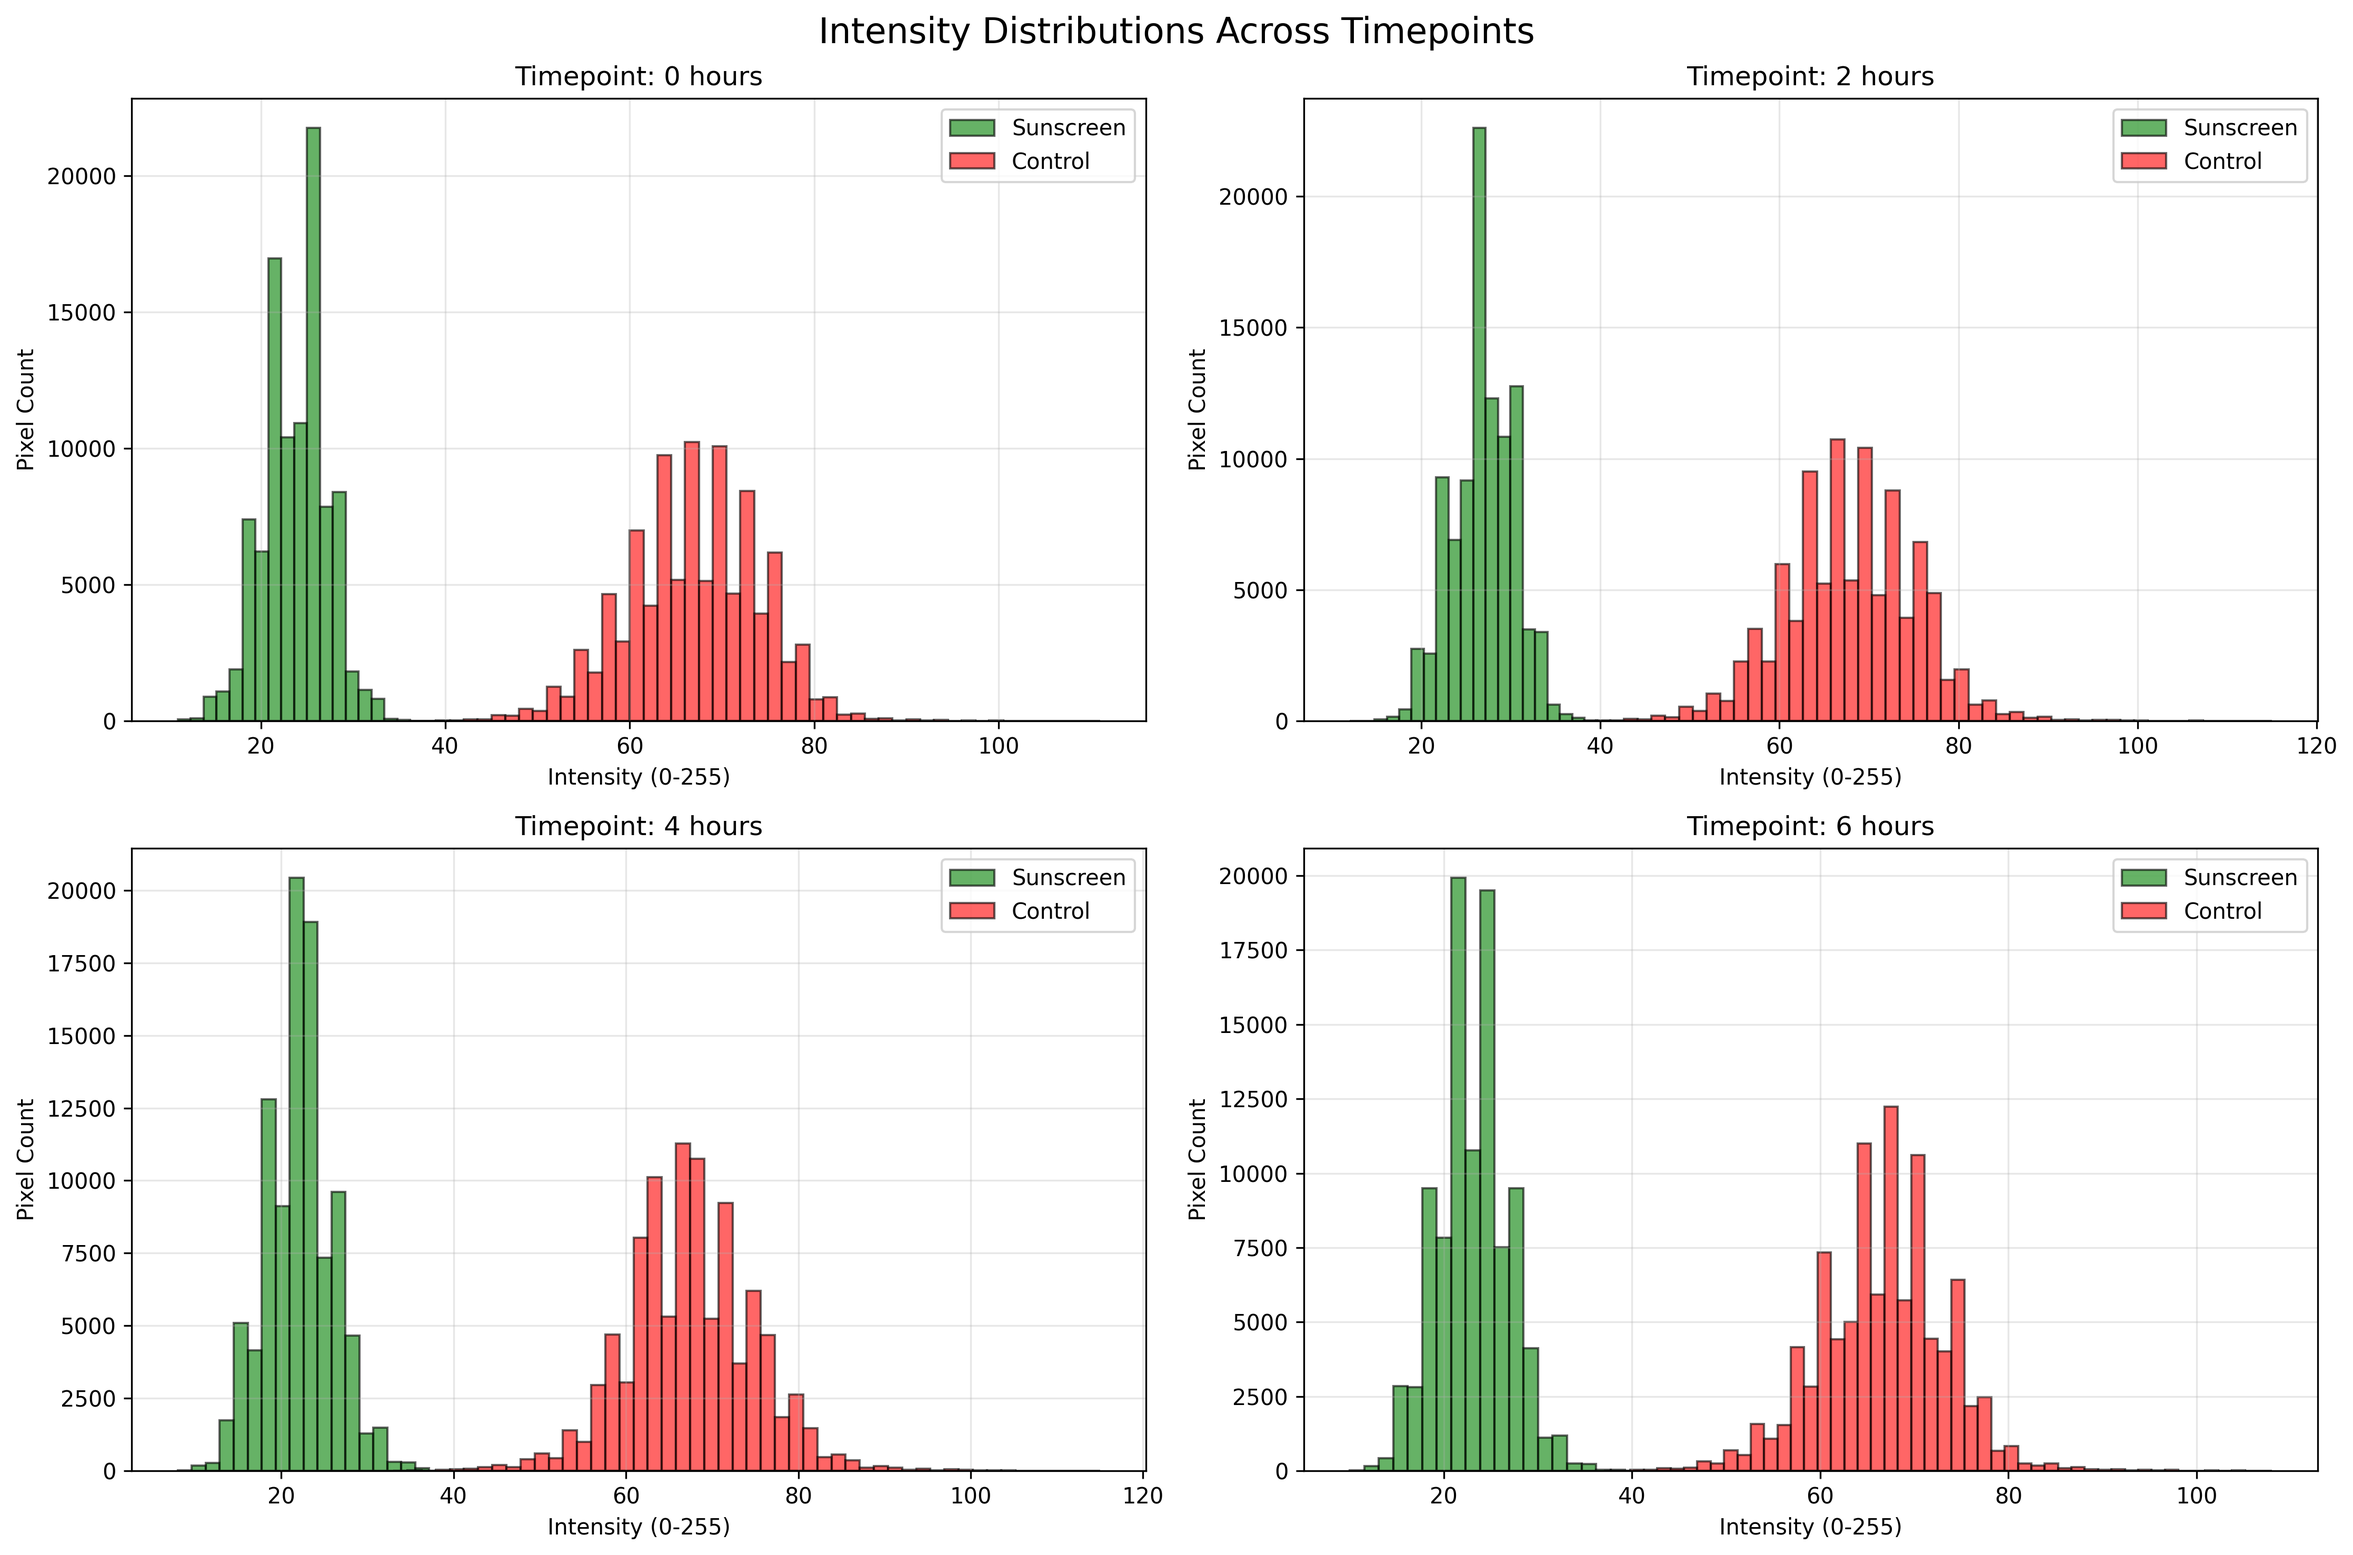
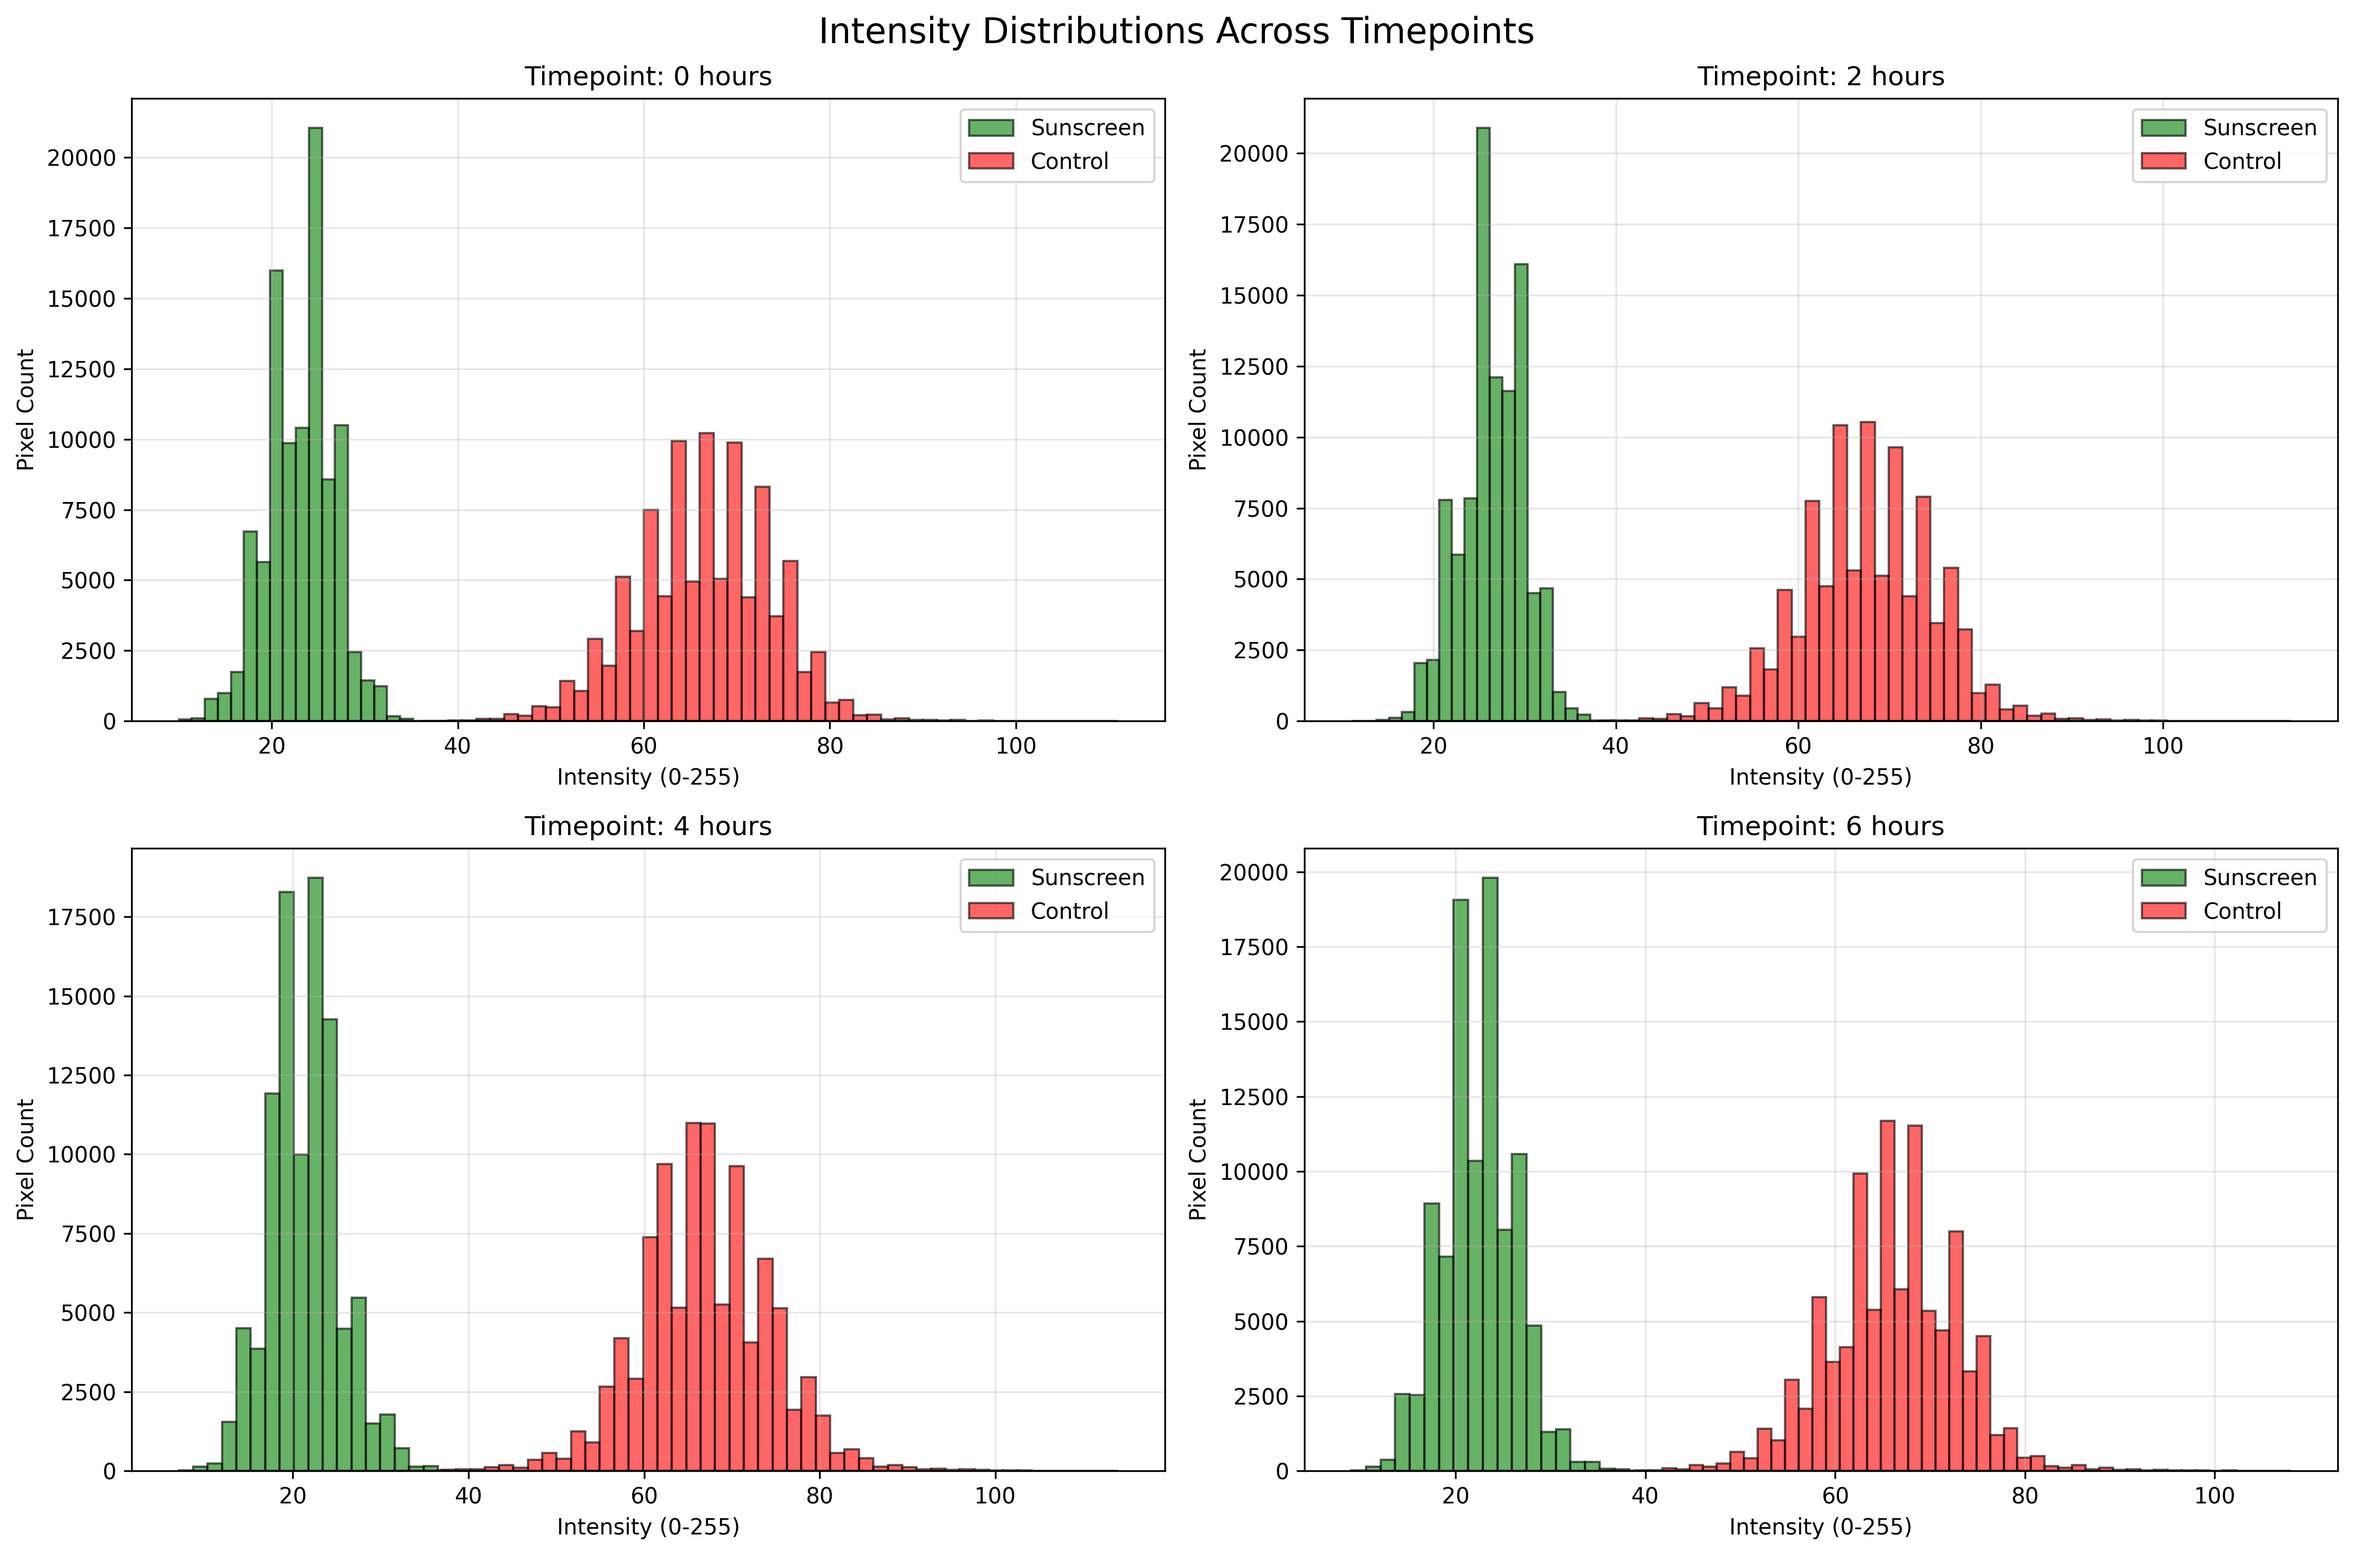
feat: luminance improved

diff --git a/src/core/intensity_analyzer.py b/src/core/intensity_analyzer.py
@@ -21,17 +21,33 @@ class IntensityAnalyzer:
 
         roi_region = image[y:y+h, x:x+w]
         
-        #converting to grayscale
+        #better luminance
         if len(roi_region.shape) == 3:
-            gray = cv2.cvtColor(roi_region, cv2.COLOR_BGR2GRAY)
-        else:
-            gray = roi_region
+            b,g,r = cv2.split(roi_region)
+            gray = (0.114*b + 0.587*g + 0.299*r).astype(np.uint8)
+        else:gray = roi_region
+
         
+        # #converting to grayscale
+        # if len(roi_region.shape) == 3:
+            # gray = cv2.cvtColor(roi_region, cv2.COLOR_BGR2GRAY)
+        # else:
+            # gray = roi_region
+        
+
         #get rid of any fully black or fully white pixels (potential errors)
         valid_pixels = gray[(gray > 5) & (gray < 250)]
         # return gray.flatten()
         return valid_pixels.flatten() if len(valid_pixels) > 0 else gray.flatten()
     
+    def remove_outliers(self, intensities):
+        q1 = np.percentile(intensities, 25)
+        q3 = np.percentile(intensities, 75)
+        iqr = q3 - q1
+        lower_bound = q1 - 1.5 * iqr
+        upper_bound = q3 + 1.5 * iqr
+        return intensities[(intensities >= lower_bound) & (intensities <= upper_bound)]
+
     def analyze_timepoint(self, image, time):
         # sunscreen_intensities = self.extract_roi_intensities(image, self.roi_selector.sunscreen_roi)
         # control_intensities = self.extract_roi_intensities(image, self.roi_selector.control_roi)

diff --git a/src/core/image_loader.py b/src/core/image_loader.py
@@ -9,7 +9,6 @@ class ImageLoader:
     def load_images(self,image_paths):
         self.image_paths = sorted(image_paths)
         self.images = []
-        #make sure image exists - saves time later
         for path in self.image_paths:
             img = cv2.imread(str(path))
             if img is None:
@@ -18,3 +17,7 @@ class ImageLoader:
             print(f"Loaded: {path} - Shape: {img.shape}")
         
         return self.images
+    
+    def preprocess_image(self, image):
+        less_noise = cv2.medianBlur(image, 3)
+        return less_noise

diff --git a/src/visualization/plotter.py b/src/visualization/plotter.py
@@ -3,7 +3,6 @@ import matplotlib.pyplot as plt
 class Plotter:
     @staticmethod
     def plot_intensity_distributions(results, save_path='intensity_distributions.png'):
-        """Plot histograms of intensity distributions"""
         fig, axes = plt.subplots(2, 2, figsize=(15, 10))
         fig.suptitle('Intensity Distributions Across Timepoints', fontsize=16)
         

diff --git a/main.py b/main.py
@@ -2,6 +2,7 @@ import sys
 import os
 from pathlib import Path
 # import importlib
+os.environ['QT_QPA_PLATFORM'] = 'xcb'
 
 project_root = Path(__file__).parent
 sys.path.insert(0, str(project_root))
